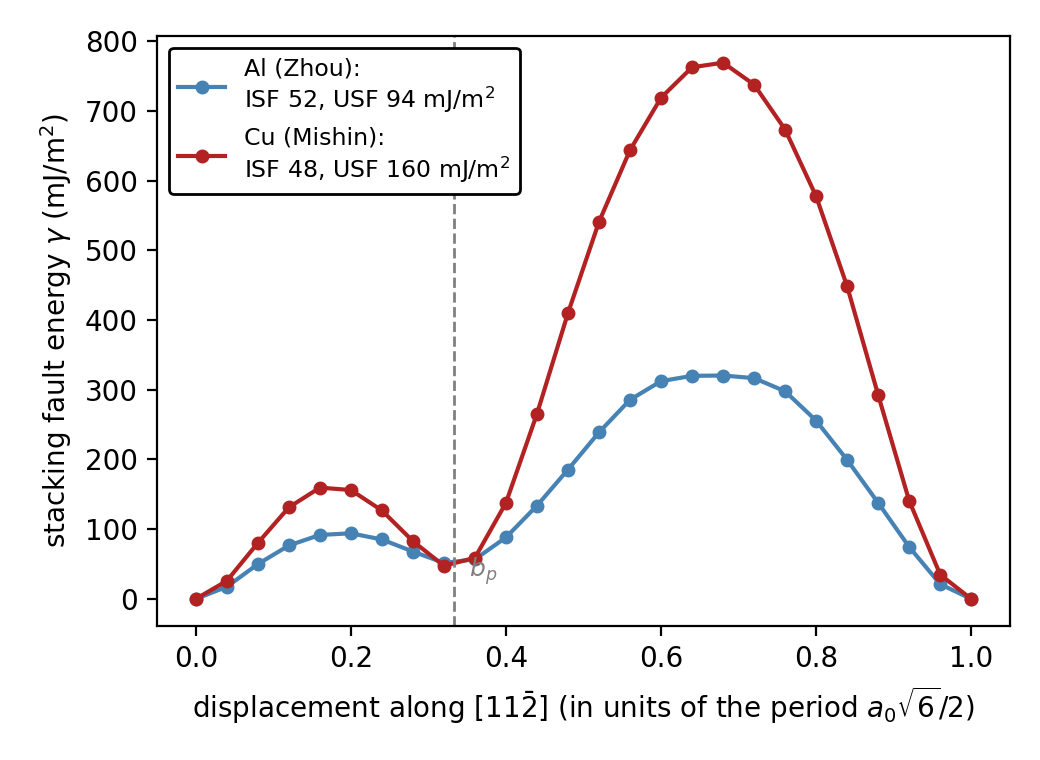
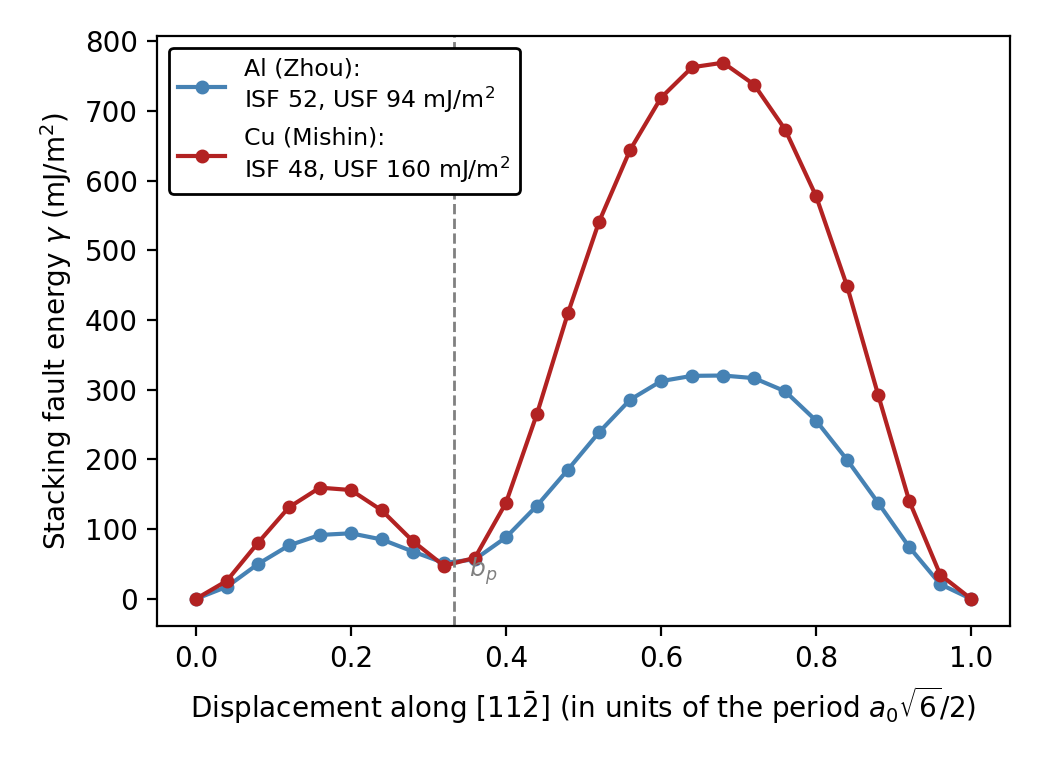
update tutorial 10 files

Changed region(s): [[0.1846, 0.9079, 0.9538, 0.9684], [0.0308, 0.1513, 0.0615, 0.7263]]

diff --git a/tutorial10/plot.py b/tutorial10/plot.py
@@ -8,16 +8,20 @@
 # gamma-line.
 #
 # Run gsfe.lmp first (e.g. in LAMMPS-GUI), then:
-#     python3 plot.py
+#     python3 plot.py gsfe-al.yaml
 
+import sys
 import yaml
 import numpy as np
 import pandas as pd
 import matplotlib.pyplot as plt
 
-EV_PER_A2_TO_MJM2 = 16021.766   # 1 eV/Ang^2 = 16021.766 mJ/m^2
+if len(sys.argv) < 2:
+    print("Usage: python3 %s <yaml file>" % sys.argv[0])
+    sys.exit('Missing argument')
 
-with open("gsfe.yaml") as f:
+EV_PER_A2_TO_MJM2 = 16021.766   # 1 eV/Ang^2 = 16021.766 mJ/m^2
+with open(sys.argv[1]) as f:
     df = pd.DataFrame(yaml.safe_load(f))
 
 shift = df["shift"].to_numpy()
@@ -52,10 +56,10 @@ def refine(i):
 x_isf, g_isf = refine(i_isf)
 x_usf, g_usf = refine(i_usf)
 
-print(f"period (a0*sqrt(6)/2)      = {period:.3f} Ang")
+print(f"Period (a0*sqrt(6)/2)      = {period:.3f} Ang")
 print(f"Shockley partial b_p       = {b_partial:.3f} Ang")
-print(f"intrinsic SF energy  (ISF) = {g_isf:6.1f} mJ/m^2  at shift {x_isf:.3f} Ang")
-print(f"unstable  SF energy  (USF) = {g_usf:6.1f} mJ/m^2  at shift {x_usf:.3f} Ang")
+print(f"Intrinsic SF energy  (ISF) = {g_isf:6.1f} mJ/m^2  at shift {x_isf:.3f} Ang")
+print(f"Unstable  SF energy  (USF) = {g_usf:6.1f} mJ/m^2  at shift {x_usf:.3f} Ang")
 
 # plot the gamma-line
 plt.figure(figsize=(5.0, 3.8))
@@ -67,8 +71,8 @@ plt.plot(x_usf, g_usf, "^", color="firebrick", ms=9,
 plt.axvline(b_partial, ls="--", color="gray", lw=1)
 plt.text(b_partial, plt.ylim()[1] * 0.05, r"  $b_p=a_0/\sqrt{6}$",
          color="gray", fontsize=8, ha="left")
-plt.xlabel(r"displacement along $[11\bar 2]$ ($\mathrm{\AA}$)")
-plt.ylabel(r"stacking fault energy $\gamma$ (mJ/m$^2$)")
+plt.xlabel(r"Displacement along $[11\bar 2]$ ($\mathrm{\AA}$)")
+plt.ylabel(r"Stacking fault energy $\gamma$ (mJ/m$^2$)")
 plt.legend(frameon=True, facecolor="white", edgecolor="black", framealpha=1.0,
            fontsize=9)
 plt.tight_layout()

diff --git a/tutorial10/compare.py b/tutorial10/compare.py
@@ -44,8 +44,8 @@ for fname, label, color in datasets:
 
 plt.axvline(1.0 / 3.0, ls="--", color="gray", lw=1)
 plt.text(1.0 / 3.0, plt.ylim()[1] * 0.04, r"  $b_p$", color="gray", fontsize=9)
-plt.xlabel(r"displacement along $[11\bar 2]$ (in units of the period $a_0\sqrt{6}/2$)")
-plt.ylabel(r"stacking fault energy $\gamma$ (mJ/m$^2$)")
+plt.xlabel(r"Displacement along $[11\bar 2]$ (in units of the period $a_0\sqrt{6}/2$)")
+plt.ylabel(r"Stacking fault energy $\gamma$ (mJ/m$^2$)")
 plt.legend(frameon=True, facecolor="white", edgecolor="black", framealpha=1.0,
            fontsize=8.5)
 plt.tight_layout()
